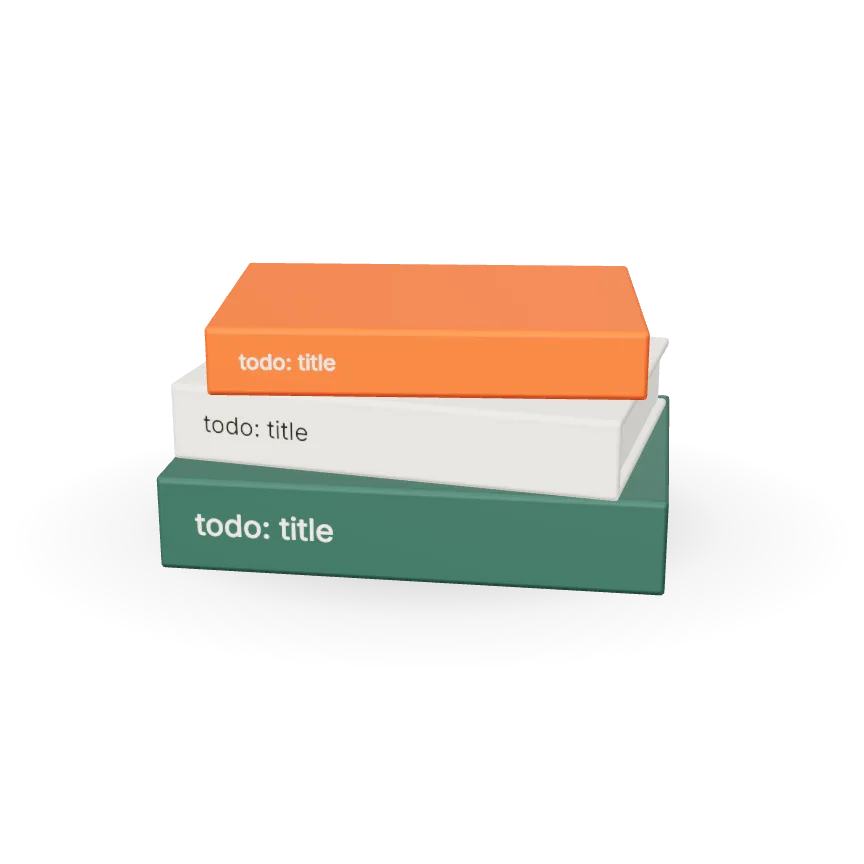
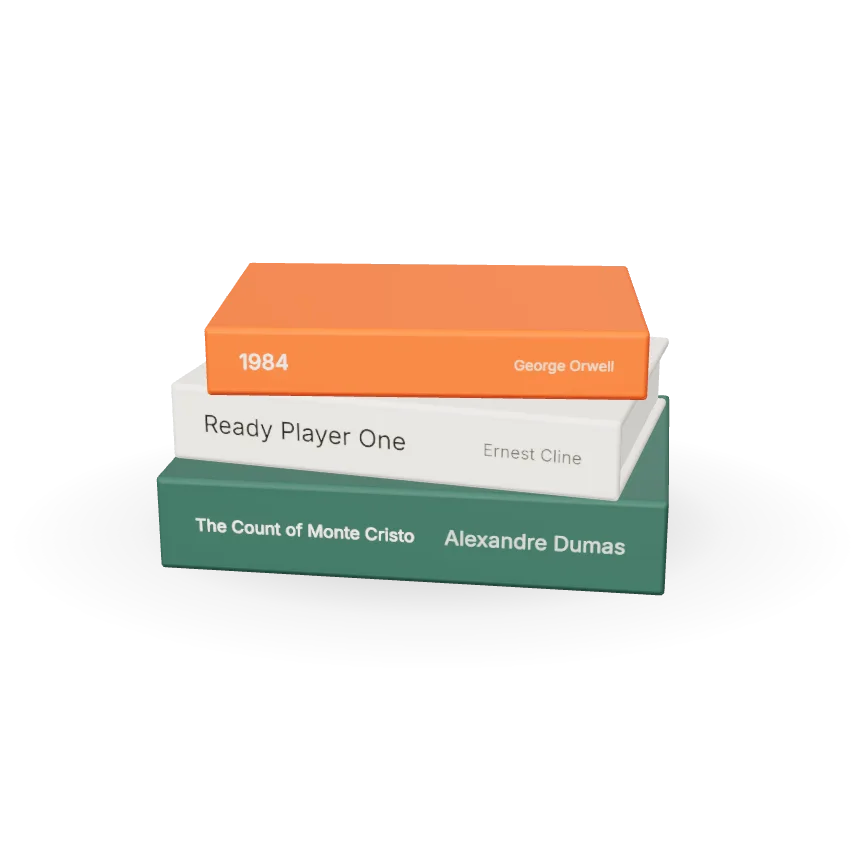
About: How I spend my time tiles with your texts and books, Milestones cards with titles only

diff --git a/app/tiles/books.ts b/app/tiles/books.ts
@@ -25,15 +25,20 @@ function spineTexture(book: Book, w: number, h: number, bg: string, ink: string)
   g.fillStyle = ink
   g.textBaseline = 'middle'
   const title = isTodo(book.title) ? 'todo: title' : book.title
+  const author = book.author && !isTodo(book.author) ? book.author : ''
+  // Author first, right-aligned; the title then shrinks to fit the space left of it.
+  const authorFont = `400 ${c.height * 0.28}px Inter, system-ui, sans-serif`
+  g.font = authorFont
+  const aw = author ? g.measureText(author).width : 0
+  const room = c.width * 0.88 - (author ? aw + c.width * 0.05 : 0)
   let size = c.height * 0.42
   g.font = `500 ${size}px Inter, system-ui, sans-serif`
-  while (g.measureText(title).width > c.width * 0.62 && size > 10) { size -= 2; g.font = `500 ${size}px Inter, system-ui, sans-serif` }
+  while (g.measureText(title).width > room && size > 10) { size -= 2; g.font = `500 ${size}px Inter, system-ui, sans-serif` }
   g.fillText(title, c.width * 0.06, c.height / 2)
-  if (book.author && !isTodo(book.author)) {
+  if (author) {
     g.globalAlpha = 0.7
-    g.font = `400 ${c.height * 0.28}px Inter, system-ui, sans-serif`
-    const aw = g.measureText(book.author).width
-    g.fillText(book.author, c.width * 0.94 - aw, c.height / 2)
+    g.font = authorFont
+    g.fillText(author, c.width * 0.94 - aw, c.height / 2)
   }
   const t = new CanvasTexture(c)
   t.colorSpace = SRGBColorSpace

diff --git a/app/pages/about.vue b/app/pages/about.vue
@@ -1,5 +1,5 @@
 <script setup lang="ts">
-// About: a stack of photos left, a short story right, then experience, recognition (as cards
+// About: a stack of photos left, a short story right, then experience, milestones (as cards
 // with photos and links) and what I do outside work.
 const { t, lp, lang, col } = useLang()
 const { data: page } = await useAsyncData(`about-${lang.value}`, () => queryCollection(col('pages')).path(lang.value === 'de' ? '/de/pages/about' : '/pages/about').first())
@@ -45,7 +45,6 @@ useSeoMeta({ title: () => t('about.title'), description: () => page.value!.descr
             <span class="rec__text">
               <span class="t-mono muted">{{ r.year }}</span>
               <span class="rec__title">{{ r.title }}<span v-if="r.href" class="rec__arrow" aria-hidden="true">&nbsp;↗</span></span>
-              <span class="muted rec__detail">{{ r.detail }}</span>
             </span>
           </component>
         </li>
@@ -122,8 +121,6 @@ useSeoMeta({ title: () => t('about.title'), description: () => page.value!.descr
 .rec__title { font-size: var(--text-heading); letter-spacing: var(--tracking-heading); line-height: 1.25; }
 
 .rec__arrow { display: inline-block; transition: transform var(--motion-dur-fast) var(--motion-ease); }
-
-.rec__detail { font-size: var(--text-small); }
 
 a.rec__card:hover img { transform: scale(1.04); }
 

diff --git a/app/i18n/ui.ts b/app/i18n/ui.ts
@@ -68,8 +68,8 @@ export const ui = {
 
     'about.title': 'About',
     'about.experience': 'Experience',
-    'about.recognition': 'Recognition',
-    'about.outside': 'Outside work',
+    'about.recognition': 'Milestones',
+    'about.outside': 'How I spend my time',
     'about.play': 'Play with them',
     'photos.next': 'next photo',
 
@@ -78,7 +78,6 @@ export const ui = {
     'date.locale': 'en-GB',
 
     'tile.interactive': 'interactive 3D',
-    'tile.placeholder': 'placeholder model',
 
     'error.notFound': 'Not found',
     'error.error': 'Error',
@@ -153,8 +152,8 @@ export const ui = {
 
     'about.title': 'Über mich',
     'about.experience': 'Erfahrung',
-    'about.recognition': 'Auszeichnungen',
-    'about.outside': 'Neben der Arbeit',
+    'about.recognition': 'Meilensteine',
+    'about.outside': 'Wie ich meine Zeit verbringe',
     'about.play': 'Zum Ausprobieren',
     'photos.next': 'nächstes Foto',
 
@@ -163,7 +162,6 @@ export const ui = {
     'date.locale': 'de-CH',
 
     'tile.interactive': 'interaktives 3D-Modell',
-    'tile.placeholder': 'Platzhaltermodell',
 
     'error.notFound': 'Nicht gefunden',
     'error.error': 'Fehler',

diff --git a/app/components/SideTile.vue b/app/components/SideTile.vue
@@ -88,7 +88,6 @@ onMounted(() => {
         :fetchpriority="eager ? 'high' : undefined"
         :preload="eager ? { fetchPriority: 'high' } : undefined"
       />
-      <span v-if="tile.placeholder && tile.scene" class="tile__flag t-mono">{{ t('tile.placeholder') }}</span>
       <p v-if="caption" class="tile__caption" aria-hidden="true">{{ caption }}</p>
     </component>
     <figcaption>
@@ -128,16 +127,6 @@ onMounted(() => {
 /* The live canvas sits on the poster; the poster stays underneath as the fallback. */
 .tile__stage :deep(.tile__canvas) { position: absolute; inset: 0; width: 100%; height: 100%; }
 
-.tile__flag {
-  position: absolute;
-  top: var(--space-3);
-  left: var(--space-3);
-  z-index: 1;
-  padding: 0.1em 0.6em;
-  border-radius: var(--radius-pill);
-  background: var(--bg);
-  color: var(--ink-muted);
-}
 
 .tile__caption {
   position: absolute;

diff --git a/content.config.ts b/content.config.ts
@@ -97,10 +97,9 @@ export default defineContentConfig({
         // A small stack of photos of me (portraits, talks, presentations). Placeholders allowed.
         photos: z.array(cover),
         experience: z.array(z.object({ when: z.string(), what: z.string(), where: z.string() })),
-        // Recognition as cards: a photo (or placeholder), what it was, when, and a link.
+        // Milestones as cards: a photo (or placeholder), what it was, when, and a link.
         recognition: z.array(z.object({
           title: z.string(),
-          detail: z.string(),
           year: z.string(),
           href: z.string().optional(),
           image: cover.optional(),

diff --git a/content/de/pages/about.md b/content/de/pages/about.md
@@ -28,35 +28,31 @@ experience:
     where: Zürcher Hochschule der Künste (ZHdK)
 recognition:
   - title: KMU Innovationstag
-    detail: Kymu auf der Bühne gepitcht
     year: "2026"
     href: https://www.zh.ch/de/news-uebersicht/mitteilungen/2026/wirtschaft-arbeit/zuercher-kmu-innovationstag-2026.html
     image:
       src: /photos/kmu-innovationstag.jpg
       alt: Stepan und Elia Salerno auf der Bühne beim Pitch von Kymu, hinter ihnen die Folie «Was kann Kymu?».
   - title: Creative Economies Forum
-    detail: Kymu gepitcht
     year: "2026"
     href: https://www.zhdk.ch/en/zcce/creative-economies-forum-cef-27632/cef
     image:
       src: /photos/stepan-stage.jpg
       alt: Stepan auf der Bühne mit Mikrofon und Presenter, beim Pitch von Kymu.
   - title: SDA Bachelor Design Award
-    detail: Für Kymu, meine Bachelorarbeit mit Elia Salerno
     year: "2025"
     href: https://www.zhdk.ch/en/news/sda-bachelor-award-2025-8549
     image:
       src: /photos/sda-award.jpg
       alt: Stepan auf der Bühne an der Verleihung des SDA Bachelor Design Award, mit der Auszeichnung in der Hand, neben ihm die anderen Personen auf der Bühne.
   - title: Dezeen School Shows
-    detail: Kymu in der Ausstellung der ZHdK
     year: "2025"
     href: https://www.dezeen.com/2025/06/15/emotions-installation-zurich-university-of-the-arts-schoolshows/
     image:
       src: /Kymu/thumbnail.webp
       alt: Ein Kind hebt vor einem Fernseher mit einer Kymu-Übung beide Arme.
 outside:
-  text: "Neben der Arbeit baue ich zu Hause Elektronik, drucke Dinge in 3D, zeichne mit Aquarell und Fineliner in mein Skizzenbuch, lese und führe Plakativ, mein Plakat-Business. Ein paar davon, in 3D, zum Ausprobieren:"
+  text: "Neben der Arbeit baue ich zu Hause Dinge, drucke in 3D, zeichne in mein Skizzenbuch und lese gern. Einiges, womit ich mich zuletzt beschäftigt habe:"
   photos: []
 ---
 

diff --git a/content/pages/about.md b/content/pages/about.md
@@ -29,35 +29,31 @@ experience:
     where: Zurich University of the Arts (ZHdK)
 recognition:
   - title: KMU Innovationstag
-    detail: Pitched Kymu on stage
     year: "2026"
     href: https://www.zh.ch/de/news-uebersicht/mitteilungen/2026/wirtschaft-arbeit/zuercher-kmu-innovationstag-2026.html
     image:
       src: /photos/kmu-innovationstag.jpg
       alt: Stepan and Elia Salerno on stage presenting Kymu, with the slide "Was kann Kymu?" behind them.
   - title: Creative Economies Forum
-    detail: Pitched Kymu
     year: "2026"
     href: https://www.zhdk.ch/en/zcce/creative-economies-forum-cef-27632/cef
     image:
       src: /photos/stepan-stage.jpg
       alt: Stepan on stage with a microphone and a clicker, pitching Kymu.
   - title: SDA Bachelor Design Award
-    detail: For Kymu, my thesis with Elia Salerno
     year: "2025"
     href: https://www.zhdk.ch/en/news/sda-bachelor-award-2025-8549
     image:
       src: /photos/sda-award.jpg
       alt: Stepan on stage at the SDA Bachelor Design Award ceremony, holding the award, with the other people on stage beside him.
   - title: Dezeen School Shows
-    detail: Kymu featured in the ZHdK show
     year: "2025"
     href: https://www.dezeen.com/2025/06/15/emotions-installation-zurich-university-of-the-arts-schoolshows/
     image:
       src: /Kymu/thumbnail.webp
       alt: A child raises both arms in front of a TV running a Kymu exercise.
 outside:
-  text: "Outside work I build electronics at home, 3D print things, draw in a sketchbook with watercolour and fineliner, read, and run Plakativ, my poster business. A few of them, in 3D, to play with:"
+  text: "Outside work I build things at home, 3D print, draw in a sketchbook and enjoy reading. Some of my recent activities:"
   photos: []
 ---
 
